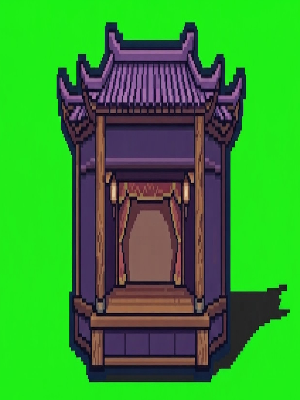
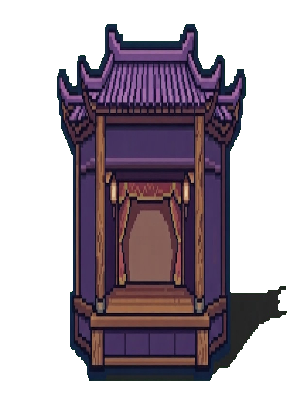
还是很乱的场景，但图扣干净了

diff --git a/css/level1.css b/css/level1.css
@@ -469,30 +469,30 @@
 }
 #house-exit-btn:hover { transform: translate(-2px, -2px); box-shadow: inset 2px 2px 0 #9a7bc8, inset -2px -2px 0 #5a3b88, 5px 5px 0 #0d0618; }
 
-/* 关卡中玩家定位 */
 #level1-screen #player { bottom: 18%; }
 
 /* ========================================================
-   真实素材替换层（覆盖几何占位）
+   真实素材替换层（覆盖几何占位）v2
    ======================================================== */
 
-/* 村口场景 — 隐藏已被实底背景替换的层 */
-#scene-village-gate .gate-sky,
-#scene-village-gate .gate-mountains-far,
-#scene-village-gate .gate-mountains-mid,
-#scene-village-gate .gate-village-silhouette,
-#scene-village-gate .gate-mountains {
+/* ---------- 村口 ---------- */
+/* 实底背景图已包含地面/远山，隐藏冲突的几何层 */
+#scene-village-gate .gate-path,
+#scene-village-gate .gate-grass-l,
+#scene-village-gate .gate-grass-r {
     display: none;
 }
 
-/* 村口 — 寨门建筑 */
+/* 寨门：缩小到 200x267，调低位置 */
 #village-gate-structure {
-    width: 300px;
-    height: 400px;
+    width: 200px;
+    height: 267px;
     background-image: url('../assets/images/scences/level1/gate_structure.png');
     background-size: contain;
     background-repeat: no-repeat;
     background-position: center bottom;
+    bottom: 14%;
+    right: 10%;
 }
 #village-gate-structure .gate-wall,
 #village-gate-structure .gate-roof,
@@ -500,45 +500,48 @@
     display: none;
 }
 
-/* 村口 — 前景大树 */
+/* 村口 — 前景大树（缩小到80x88，更融入） */
 #scene-village-gate .gate-trees {
     background: none;
-    width: 90px;
-    height: 98px;
+    width: 80px;
+    height: 88px;
     background-image: url('../assets/images/scences/level1/fg_tree.png');
     background-size: contain;
     background-repeat: no-repeat;
     clip-path: none;
     box-shadow: none;
+    bottom: 15%;
 }
 
-/* 村口 — 前景栅栏 */
+/* 村口 — 前景栅栏（缩小到100x60） */
 #scene-village-gate .gate-fence {
     background: none;
-    width: 130px;
-    height: 80px;
+    width: 100px;
+    height: 60px;
     background-image: url('../assets/images/scences/level1/fg_fence.png');
     background-size: contain;
     background-repeat: no-repeat;
     background-position: center bottom;
+    bottom: 15%;
 }
 
-/* 村口 — 前景灌木 */
+/* 村口 — 前景灌木（缩小到50x32） */
 #scene-village-gate .gate-bush-l,
 #scene-village-gate .gate-bush-r {
     background: none;
-    width: 76px;
-    height: 48px;
+    width: 50px;
+    height: 32px;
     background-image: url('../assets/images/scences/level1/fg_bush.png');
     background-size: contain;
     background-repeat: no-repeat;
     clip-path: none;
 }
 
-/* 村内 — 大戏台 */
+/* ---------- 村内 ---------- */
+/* 大戏台：缩小到 200x267 */
 #scene-village-inside .village-stage {
-    width: 300px;
-    height: 400px;
+    width: 200px;
+    height: 267px;
     background-image: url('../assets/images/scences/level1/stage.png');
     background-size: contain;
     background-repeat: no-repeat;
@@ -550,14 +553,15 @@
     display: none;
 }
 
-/* 村内 — 绣花古宅 */
+/* 绣花古宅：缩小到 250x312，调低位置 */
 #scene-village-inside .village-house {
-    width: 400px;
-    height: 500px;
+    width: 250px;
+    height: 312px;
     background-image: url('../assets/images/scences/level1/house_exterior.png');
     background-size: contain;
     background-repeat: no-repeat;
     background-position: center bottom;
+    bottom: 16%;
 }
 #scene-village-inside .village-house .house-roof,
 #scene-village-inside .village-house .house-wall {
@@ -567,15 +571,15 @@
     background: transparent;
     border: none;
     box-shadow: none;
-    width: 100px;
-    height: 100px;
+    width: 60px;
+    height: 60px;
 }
 
-/* 村内 — 灯笼 */
+/* 灯笼：缩小到 16x24 */
 #scene-village-inside .village-lantern {
     background: none;
-    width: 28px;
-    height: 48px;
+    width: 16px;
+    height: 24px;
     background-image: url('../assets/images/scences/level1/fg_lantern.png');
     background-size: contain;
     background-repeat: no-repeat;
@@ -586,21 +590,22 @@
     display: none;
 }
 
-/* 后山场景 — 隐藏已被实底背景替换的层 */
-#scene-hub .hub-bg,
-#scene-hub .hub-mountains-far,
-#scene-hub .hub-mid-trees {
+/* ---------- 后山 ---------- */
+/* 实底背景图已包含地面/梯田，隐藏冲突的地面层 */
+#scene-hub .hub-ground {
     display: none;
 }
 
-/* 后山 — 祠堂 */
+/* 祠堂：缩小到 250x312，调低位置 */
 #scene-hub .hub-hall {
-    width: 400px;
-    height: 500px;
+    width: 250px;
+    height: 312px;
     background-image: url('../assets/images/scences/level1/hall_exterior.png');
     background-size: contain;
     background-repeat: no-repeat;
     background-position: center bottom;
+    bottom: 14%;
+    right: 12%;
 }
 #scene-hub .hub-hall .hub-icon,
 #scene-hub .hub-hall .hub-label {